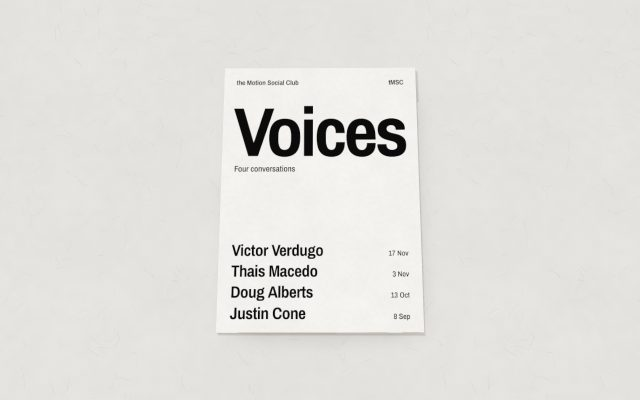
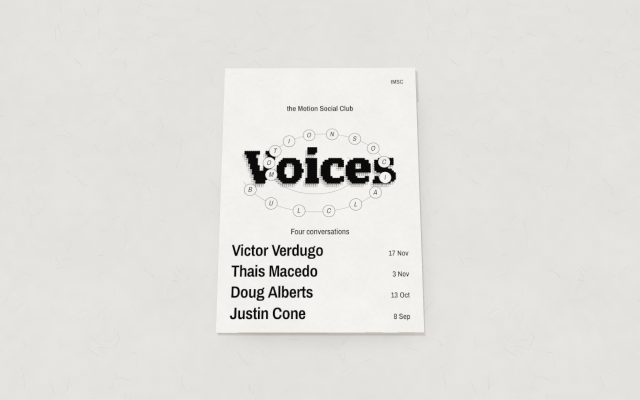
tMSC Voices: dotted orbit cover
The Type cover now follows the Human + Motion references: 'the Motion Social Club' as a
pre-title, 'Voices' in Bitter 800 built from overlapping dots with an outlined offset copy
as a shadow, and a spiral orbit carrying the club's letters in rings; same copy as before.
The previous typographic cover stays available as Plain. Bitter (OFL) ships with its license.

Claude-Session: https://claude.ai/code/session_01TARX4ZTpTNPwo2gLfwacvw

diff --git a/playground/app/prototypes/tmsc-voices-magazine/layout-cover-orbit.ts b/playground/app/prototypes/tmsc-voices-magazine/layout-cover-orbit.ts
@@ -1,0 +1,99 @@
+import { font, right, type Ctx } from "./canvas-type";
+import { displayDate, INTERVIEWS } from "./content";
+import { PAGE_PX } from "./data";
+import { dotType } from "./dot-type";
+import type { CoverSetup } from "./setup";
+
+/**
+ * The typographic cover: "the Motion Social Club" as a pre-title, "Voices" built from dots in
+ * a heavy slab serif, an orbit line spiralling around it with the club's letters in rings,
+ * then the four guests and their dates. Same copy as the plain cover.
+ */
+
+export const SLAB_FAMILY = "tMSC Voices Slab";
+const W = PAGE_PX.w;
+const H = PAGE_PX.h;
+const M = 92;
+const ROW_H = 150;
+const ORBIT_LETTERS = "MOTIONSOCIALCLUB";
+
+/** A point on the orbit: an ellipse-ish spiral opening outwards from the title's middle. */
+function orbitPoint(cx: number, cy: number, rx: number, ry: number, u: number): [number, number] {
+  const a = -0.6 + u * Math.PI * 2 * 1.55;
+  const grow = 0.42 + 0.58 * u;
+  return [cx + Math.cos(a) * rx * grow, cy + Math.sin(a) * ry * grow];
+}
+
+export function drawOrbitCover(ctx: Ctx, cover: CoverSetup) {
+  ctx.fillStyle = cover.color;
+  ctx.fillRect(0, 0, W, H);
+  const ink = cover.ink;
+  ctx.fillStyle = ink;
+
+  font(ctx, 500, 46);
+  right(ctx, "tMSC", W - M, M + 40);
+
+  const cx = W / 2;
+  const cy = 800;
+  const rx = 580;
+  const ry = 360;
+
+  // the orbit line goes under everything
+  ctx.save();
+  ctx.strokeStyle = ink;
+  ctx.globalAlpha = 0.45;
+  ctx.lineWidth = 2.2;
+  ctx.beginPath();
+  for (let i = 0; i <= 400; i++) {
+    const [x, y] = orbitPoint(cx, cy, rx, ry, i / 400);
+    if (i) ctx.lineTo(x, y);
+    else ctx.moveTo(x, y);
+  }
+  ctx.stroke();
+  ctx.restore();
+
+  // pre-title above the orbit, then the dotted title
+  font(ctx, 600, 58, -0.005);
+  ctx.textAlign = "center";
+  ctx.fillText("the Motion Social Club", cx, cy - ry - 90);
+  ctx.textAlign = "left";
+  const size = 360;
+  dotType(ctx, "Voices", `800 ${size}px "${SLAB_FAMILY}"`, cx, cy + size * 0.33, { step: 14, ink });
+
+  // the club's letters in rings along the outer turns
+  const n = ORBIT_LETTERS.length;
+  for (let i = 0; i < n; i++) {
+    const [x, y] = orbitPoint(cx, cy, rx, ry, 0.34 + (0.66 * (i + 0.5)) / n);
+    ctx.beginPath();
+    ctx.arc(x, y, 44, 0, Math.PI * 2);
+    ctx.fillStyle = cover.color;
+    ctx.fill();
+    ctx.lineWidth = 2.2;
+    ctx.strokeStyle = ink;
+    ctx.stroke();
+    ctx.save();
+    ctx.translate(x, y);
+    ctx.transform(1, 0, -0.2, 1, 0, 0); // an oblique, like the italic in the reference
+    ctx.fillStyle = ink;
+    font(ctx, 400, 52);
+    ctx.textAlign = "center";
+    ctx.textBaseline = "middle";
+    ctx.fillText(ORBIT_LETTERS[i], 0, 2);
+    ctx.restore();
+  }
+
+  ctx.fillStyle = ink;
+  font(ctx, 500, 60, -0.01);
+  ctx.textAlign = "center";
+  ctx.fillText("Four conversations", cx, cy + ry + 140);
+  ctx.textAlign = "left";
+
+  const top = H - M - ROW_H * (INTERVIEWS.length - 1);
+  INTERVIEWS.forEach((it, i) => {
+    const y = top + i * ROW_H;
+    font(ctx, 700, 118, -0.02);
+    ctx.fillText(it.guest, M, y);
+    font(ctx, 500, 54);
+    right(ctx, displayDate(it.post_date), W - M, y);
+  });
+}

diff --git a/playground/app/prototypes/tmsc-voices-magazine/dot-type.ts b/playground/app/prototypes/tmsc-voices-magazine/dot-type.ts
@@ -1,0 +1,56 @@
+import type { Ctx } from "./canvas-type";
+
+/**
+ * Type built from dots: the word is rasterised to a mask and a grid of overlapping filled
+ * circles covers the inside. The same dots, drawn as thin outlines and dropped a little down
+ * and to the left, sit behind it like a printed shadow.
+ * Deterministic. Returns the word's box on the page.
+ */
+export function dotType(ctx: Ctx, text: string, fontCss: string, cx: number, baseline: number, o: { step: number; ink: string }) {
+  const W = ctx.canvas.width;
+  const H = ctx.canvas.height;
+  const m = document.createElement("canvas");
+  m.width = W;
+  m.height = H;
+  const g = m.getContext("2d", { willReadFrequently: true })!;
+  // same transform as the page, so the mask lines up with what we draw
+  g.setTransform(ctx.getTransform());
+  g.font = fontCss;
+  g.textAlign = "center";
+  g.fillText(text, cx, baseline);
+  const box = g.measureText(text);
+  const alpha = g.getImageData(0, 0, W, H).data;
+  const t = ctx.getTransform();
+  const inside = (x: number, y: number) => {
+    const px = Math.round(t.a * x + t.c * y + t.e);
+    const py = Math.round(t.b * x + t.d * y + t.f);
+    return px >= 0 && py >= 0 && px < W && py < H && alpha[(py * W + px) * 4 + 3] > 120;
+  };
+
+  const s = o.step;
+  const r = s * 0.7;
+  const x0 = cx - box.actualBoundingBoxLeft - s * 2;
+  const x1 = cx + box.actualBoundingBoxRight + s * 2;
+  const y0 = baseline - box.actualBoundingBoxAscent - s * 2;
+  const y1 = baseline + box.actualBoundingBoxDescent + s * 2;
+  const fills: [number, number][] = [];
+  for (let y = y0; y <= y1; y += s) for (let x = x0; x <= x1; x += s) if (inside(x, y)) fills.push([x, y]);
+  const rings = fills.map(([x, y]) => [x - s * 0.8, y + s * 1.7] as [number, number]);
+  ctx.save();
+  ctx.lineWidth = Math.max(1, s * 0.09);
+  ctx.strokeStyle = o.ink;
+  // the halo: outlines only, so neighbouring rings cross like in a print proof
+  for (const [x, y] of rings) {
+    ctx.beginPath();
+    ctx.arc(x, y, r, 0, Math.PI * 2);
+    ctx.stroke();
+  }
+  ctx.fillStyle = o.ink;
+  for (const [x, y] of fills) {
+    ctx.beginPath();
+    ctx.arc(x, y, r, 0, Math.PI * 2);
+    ctx.fill();
+  }
+  ctx.restore();
+  return { left: cx - box.actualBoundingBoxLeft, right: cx + box.actualBoundingBoxRight, top: baseline - box.actualBoundingBoxAscent, bottom: baseline + box.actualBoundingBoxDescent };
+}

diff --git a/playground/app/prototypes/tmsc-voices-magazine/page-bake.ts b/playground/app/prototypes/tmsc-voices-magazine/page-bake.ts
@@ -1,5 +1,6 @@
 import type { PageSetup } from "./setup";
-import { FONT_FAMILY, FONT_URL, PAGE_PX } from "./data";
+import { ASSET_BASE, FONT_FAMILY, FONT_URL, PAGE_PX } from "./data";
+import { SLAB_FAMILY } from "./layout-cover-orbit";
 import type { Book } from "./faces";
 import { drawBackCover, drawCover } from "./layout-covers";
 import { drawEditorialLeft, drawEditorialRight, layoutEditorial, type EditorialImage, type EditorialLayout } from "./layout-editorial";
@@ -15,9 +16,11 @@ import { applyTexture } from "./textures";
 
 let fontReady: Promise<void> | null = null;
 function loadFont(): Promise<void> {
-  fontReady ??= new FontFace(FONT_FAMILY, `url(${FONT_URL})`, { weight: "400 700" })
-    .load()
-    .then((f) => void document.fonts.add(f));
+  fontReady ??= Promise.all([
+    new FontFace(FONT_FAMILY, `url(${FONT_URL})`, { weight: "400 700" }).load(),
+    // Bitter (OFL), the slab serif of the dotted cover title
+    new FontFace(SLAB_FAMILY, `url(${ASSET_BASE}/fonts/bitter-latin-800-normal.woff2)`, { weight: "800" }).load(),
+  ]).then((faces) => faces.forEach((f) => document.fonts.add(f)));
   return fontReady;
 }
 
@@ -53,7 +56,7 @@ export async function bakePages(
   textureImage: HTMLImageElement | null,
 ): Promise<Map<string, HTMLCanvasElement>> {
   const { cover, editorial } = setup;
-  const coverUrl = cover.style === "type" ? null : cover.source === "upload" ? uploaded : setup.media[cover.source]?.url;
+  const coverUrl = cover.style === "type" || cover.style === "orbit" ? null : cover.source === "upload" ? uploaded : setup.media[cover.source]?.url;
   const [, coverImg, intro, textImages] = await Promise.all([
     loadFont(),
     loadImage(coverUrl),

diff --git a/playground/app/prototypes/tmsc-voices-magazine/setup.ts b/playground/app/prototypes/tmsc-voices-magazine/setup.ts
@@ -14,7 +14,7 @@ const texture = (kind: unknown, strength: unknown, fallback: TextureKind | "None
 
 
 export type CoverSetup = {
-  style: "type" | "full" | "on-color";
+  style: "orbit" | "type" | "full" | "on-color";
   /** "upload" or the interview whose picked image goes on the cover */
   source: "upload" | 1 | 2 | 3 | 4;
   color: string;
@@ -46,7 +46,8 @@ export type PageSetup = {
 export type TextureChoice = { kind: TextureKind | "None"; strength: number };
 export type StageSetup = { color: string; texture: TextureChoice; grid: boolean };
 
-const COVER_STYLE = { Type: "type", "Full image": "full", "Image on color": "on-color" } as const;
+// "Type" is the dotted orbit cover; "Plain" keeps the first typographic cover
+const COVER_STYLE = { Type: "orbit", Plain: "type", "Full image": "full", "Image on color": "on-color" } as const;
 const COVER_SOURCE = { Uploaded: "upload", Victor: 1, Thais: 2, Doug: 3, Justin: 4 } as const;
 
 /** A percent control → 0.3…1, tolerant of stale stored values. */
@@ -58,7 +59,7 @@ export function pageSetup(v: Record<string, unknown>): PageSetup {
   const pick = (order: 1 | 2 | 3 | 4) =>
     resolveMedia(order, String(v[`${NAMES[order]}Image`]), Number(v[`${NAMES[order]}Frame`]));
   const cover: CoverSetup = {
-    style: COVER_STYLE[v.coverStyle as keyof typeof COVER_STYLE] ?? "type",
+    style: COVER_STYLE[v.coverStyle as keyof typeof COVER_STYLE] ?? "orbit",
     source: COVER_SOURCE[v.coverImage as keyof typeof COVER_SOURCE] ?? "upload",
     color: /^#[0-9a-f]{6}$/i.test(String(v.coverBg)) ? String(v.coverBg) : COVER.bg,
     // the cover ink is printed black or white, never a UI color

diff --git a/playground/app/prototypes/tmsc-voices-magazine/controls.ts b/playground/app/prototypes/tmsc-voices-magazine/controls.ts
@@ -48,7 +48,7 @@ export const controls = defineControls({
   textSize: { type: "select", label: "Q&A text", options: ["Small", "Medium", "Large"], default: "Medium" },
   textImageSize: { type: "number", label: "Q&A image size %", min: 30, max: 100, step: 5, default: 100 },
   textPage: { type: "color", label: "Q&A page color", default: "#FFFFFF" },
-  coverStyle: { type: "select", label: "Cover", options: ["Type", "Full image", "Image on color"], default: "Type" },
+  coverStyle: { type: "select", label: "Cover", options: ["Type", "Plain", "Full image", "Image on color"], default: "Type" },
   coverImage: { type: "select", label: "Cover image", options: ["Uploaded", "Victor", "Thais", "Doug", "Justin"], default: "Uploaded" },
   coverBg: { type: "color", label: "Cover color", default: COVER.bg },
   coverImageSize: { type: "number", label: "Cover image size %", min: 30, max: 100, step: 5, default: 100 },

diff --git a/playground/app/prototypes/tmsc-voices-magazine/layout-covers.ts b/playground/app/prototypes/tmsc-voices-magazine/layout-covers.ts
@@ -3,6 +3,7 @@ import { displayDate, INTERVIEWS, PUBLICATION_URL } from "./content";
 import type { CoverSetup } from "./setup";
 import { PAGE_PX } from "./data";
 import type { PageInk } from "./types";
+import { drawOrbitCover } from "./layout-cover-orbit";
 
 /** Cover and back cover, drawn at the design size (PAGE_PX). */
 
@@ -16,6 +17,7 @@ const ROW_H = 150;
  * into a color field. The type layout is the same in all three, so the masthead never moves.
  */
 export function drawCover(ctx: Ctx, cover: CoverSetup, img: HTMLImageElement | null) {
+  if (cover.style === "orbit") return drawOrbitCover(ctx, cover);
   const style = img ? cover.style : cover.style === "full" ? "on-color" : cover.style;
   ctx.fillStyle = cover.color;
   ctx.fillRect(0, 0, W, H);

diff --git a/playground/app/prototypes/tmsc-voices-magazine/magazine.test.ts b/playground/app/prototypes/tmsc-voices-magazine/magazine.test.ts
@@ -175,7 +175,8 @@ describe("cover setup", () => {
     const { defaultValues } = await import("@/components/controls");
     const { COVER, BACK_COVER } = await import("./data");
     const v = defaultValues(controls);
-    expect(pageSetup(v).cover.style).toBe("type");
+    expect(pageSetup(v).cover.style).toBe("orbit");
+    expect(pageSetup({ ...v, coverStyle: "Plain" }).cover.style).toBe("type");
     expect([COVER.bg, BACK_COVER.bg]).toEqual(["#FFFFFF", "#FFFFFF"]);
     expect([COVER.ink, BACK_COVER.ink]).toEqual(["#0C0C0C", "#0C0C0C"]);
     const c = pageSetup({ ...v, coverStyle: "Image on color", coverImage: "Doug", coverBg: "#cc84fc", coverInk: "White" }).cover;

diff --git a/playground/app/prototypes/tmsc-voices-magazine/ideas.md b/playground/app/prototypes/tmsc-voices-magazine/ideas.md
@@ -24,6 +24,7 @@ Formato: idea, tamaño (S/M/L), estado. Estados: pendiente, en curso, hecha, des
 - **Fondo del canvas** — S — hecha. Color a elegir, textura de papel y grilla opcional (apagada por defecto).
 - **Línea de tiempo con easing y duraciones** — L — hecha. Valores generales en el panel; en la línea de tiempo, preview, scrub, bloques a escala con su curva, estirar arrastrando, duración y easing por giro, persistido.
 - **Texturas intercambiables** — M — hecha. Siete papeles (incluida una textura subida) para páginas y fondo por separado, con intensidad.
+- **Tapa con título de puntos y órbita** — M — hecha. Estética de las referencias de Human + Motion: título en puntos con sombra de anillos, espiral con letras en círculos; mismo texto que antes. La tapa anterior queda como "Plain".
 - **Papel como material 3D** — M — hecha. Acabado (mate a brillante), relieve con bump desde la textura, peso (curvatura y grosor) y ondulación.
 - **Curva bézier editable a mano** (arrastrar los handles) — M — después. Hoy son presets.
 - **Record más corto con Q&A** (por ejemplo, saltear los spreads Q&A en el video) — S — después. Hoy el video con Q&A dura unos 29 s.

diff --git a/playground/app/prototypes/tmsc-voices-magazine/HOW_IT_WORKS.md b/playground/app/prototypes/tmsc-voices-magazine/HOW_IT_WORKS.md
@@ -44,6 +44,15 @@ the conversation set in columns, as in a printed magazine.
   clears them all. Edits persist in this browser (`timing-store.ts`). Touching the magazine,
   a key, prev / next or Record leaves the preview on the spread it was showing.
 
+## Cover
+
+**Type** (default) is the dotted orbit cover (`layout-cover-orbit.ts`): "the Motion Social
+Club" as a pre-title, "Voices" in Bitter 800 (OFL, `public/prototype-assets/<slug>/fonts/`)
+built from overlapping dots with an outlined, offset copy behind it as a printed shadow
+(`dot-type.ts`), a thin spiral orbit with the letters of MOTION SOCIAL CLUB in rings, then
+"tMSC", "Four conversations" and the four guests with their dates: the same copy as before.
+**Plain** keeps the first typographic cover; **Full image** and **Image on color** as before.
+
 ## Paper (3D material)
 
 `paper.ts` (pure) + `magazine.tsx` / `curl-material.ts`:

diff --git a/playground/app/prototypes/tmsc-voices-magazine/README.md b/playground/app/prototypes/tmsc-voices-magazine/README.md
@@ -97,7 +97,8 @@ Además de la textura impresa, el papel tiene su tratamiento como material:
 
 En el panel, **Cover** elige el estilo:
 
-- **Type:** blanco con tipo negro. Es el default.
+- **Type** (el default): blanco con tipo negro. "the Motion Social Club" va como pretítulo y "Voices" armado con puntos en una slab serif (Bitter), con una sombra de círculos huecos y una órbita en espiral con las letras del club. Debajo van "Four conversations" y los cuatro invitados con su fecha, el mismo texto de siempre.
+- **Plain:** la tapa tipográfica anterior, sin puntos ni órbita.
 - **Full image:** la imagen a sangre, con el tipo encima.
 - **Image on color:** la imagen dentro de un fondo del color que elijas en **Cover color** (que también colorea la tapa Type).
 
